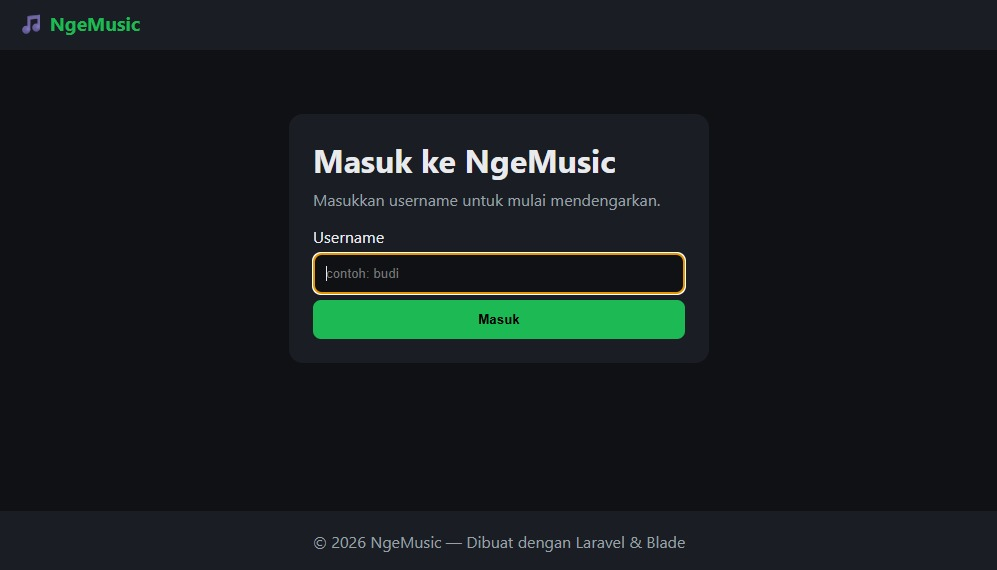
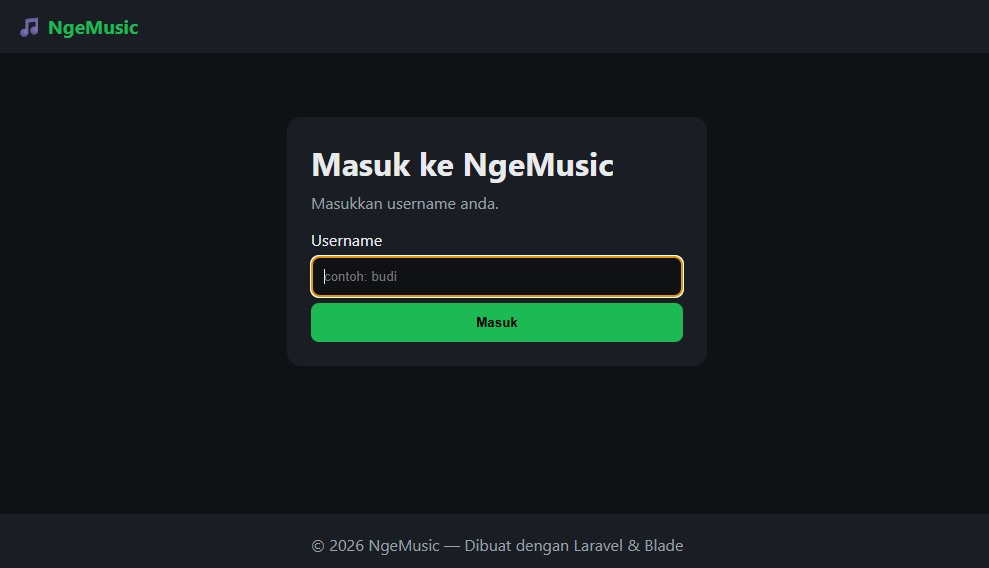
up

Changed region(s): [[0.3033, 0.2694, 0.6977, 0.6285], [0.3033, 0.9278, 0.6977, 0.9877], [0.0, 0.0299, 0.1517, 0.0599]]

diff --git a/resources/views/login.blade.php b/resources/views/login.blade.php
@@ -5,7 +5,7 @@
 @section('content')
     <div class="card login-card">
         <h1>Masuk ke NgeMusic </h1>
-        <p>Masukkan username untuk mulai mendengarkan.</p>
+        <p>Masukkan username anda.</p>
 
         <form action="{{ route('login.process') }}" method="POST">
             @csrf
